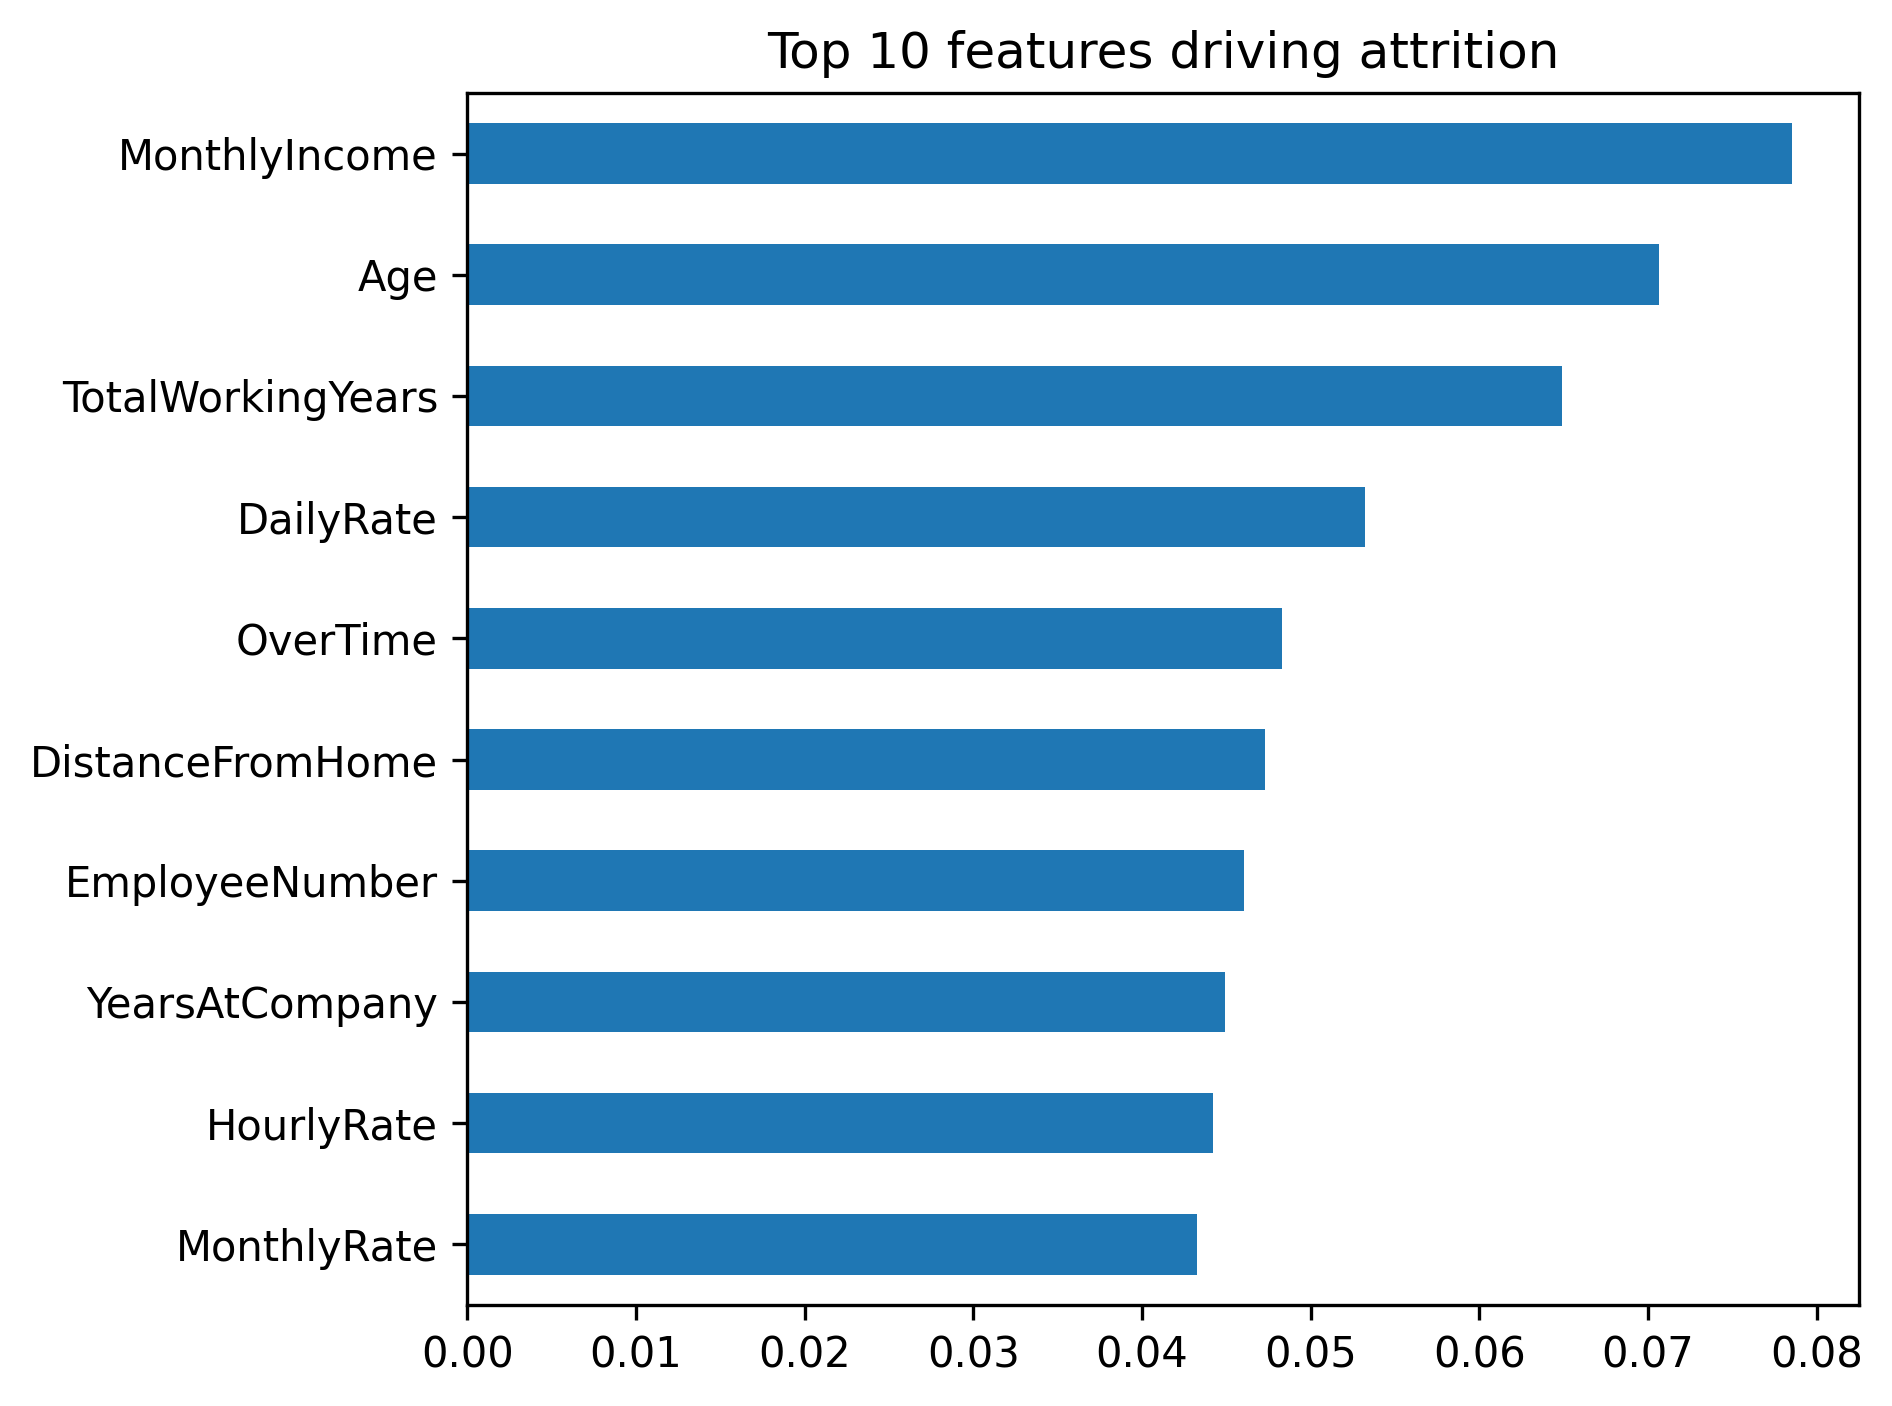
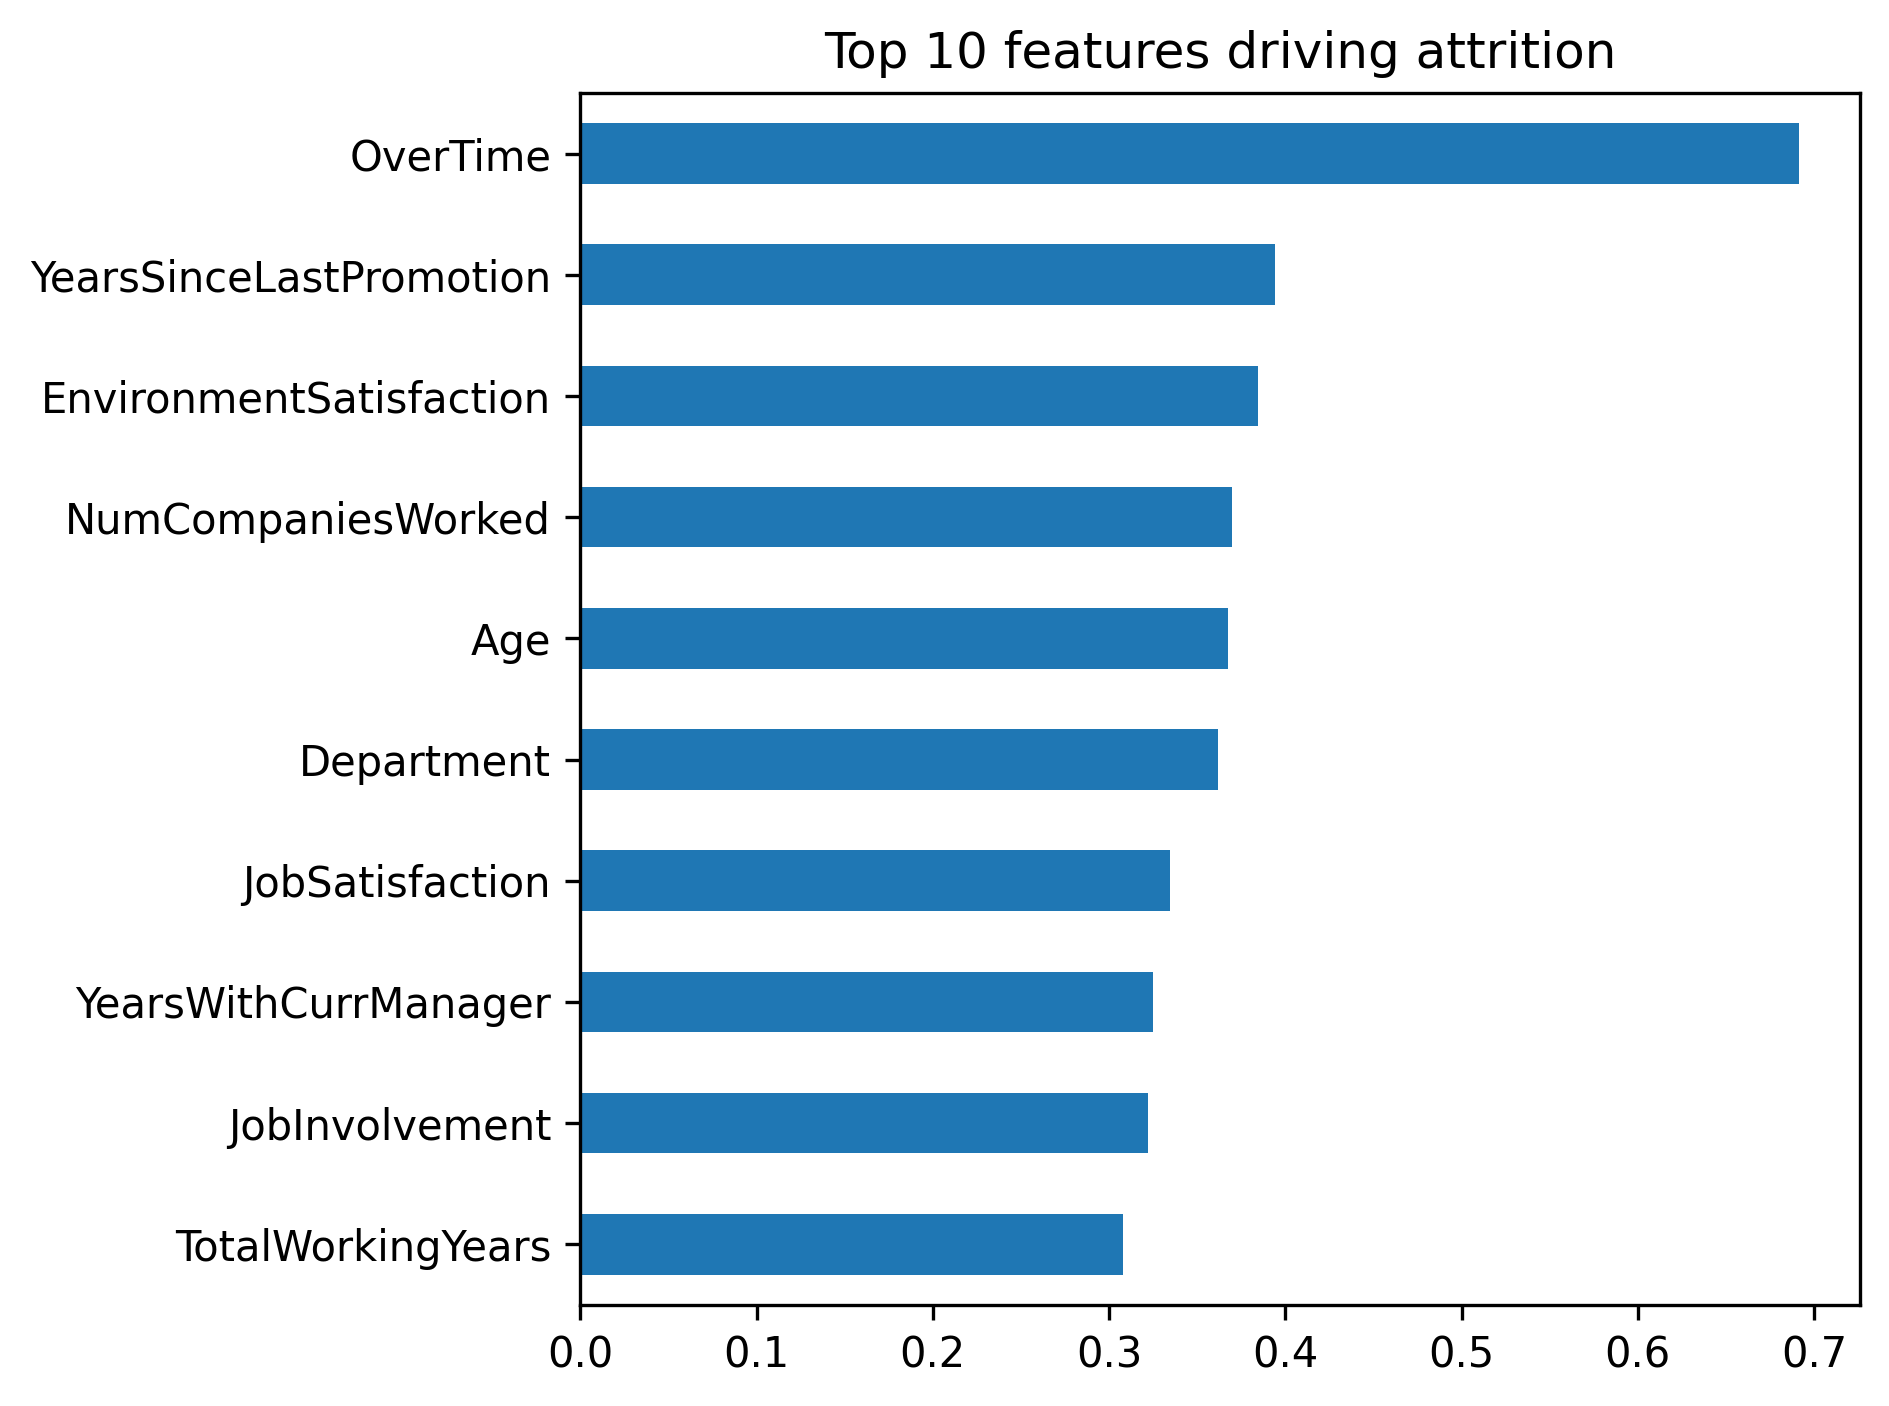
Readme changes

diff --git a/README.md b/README.md
@@ -135,10 +135,10 @@ Raw Data → EDA → Preprocessing → Feature Engineering → Model Training
 ![Feature Importance](outputs/figures/feature_importance.png)
 
 ### Model ROC curve
-![ROC Curve](outputs/figures/roc_curve.png)
+![ROC Curve](outputs/figures/roc_curves_comparison.png)
 
 ### Confusion matrix (XGBoost)
-![Confusion Matrix](outputs/figures/confusion_matrix.png)
+![Confusion Matrix](outputs/figures/confusion_matrices_comparison.png)
 
 ---
 
